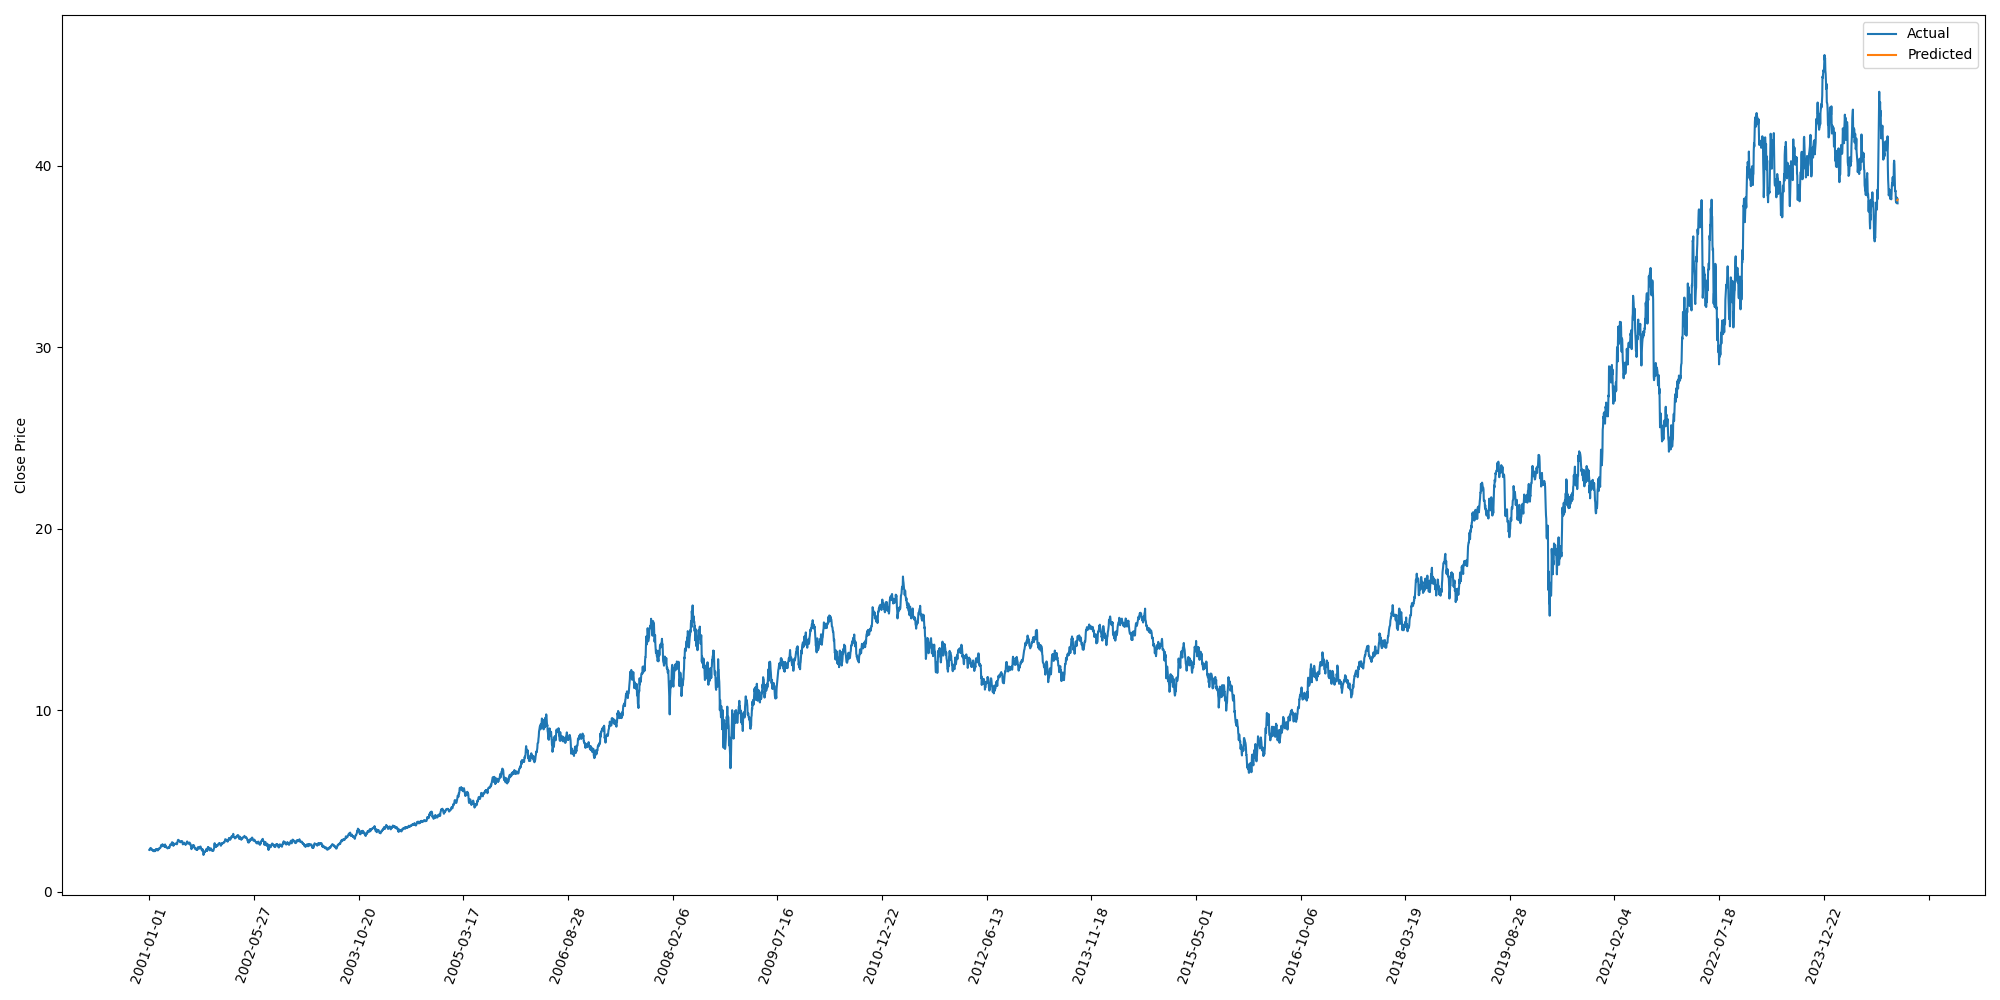
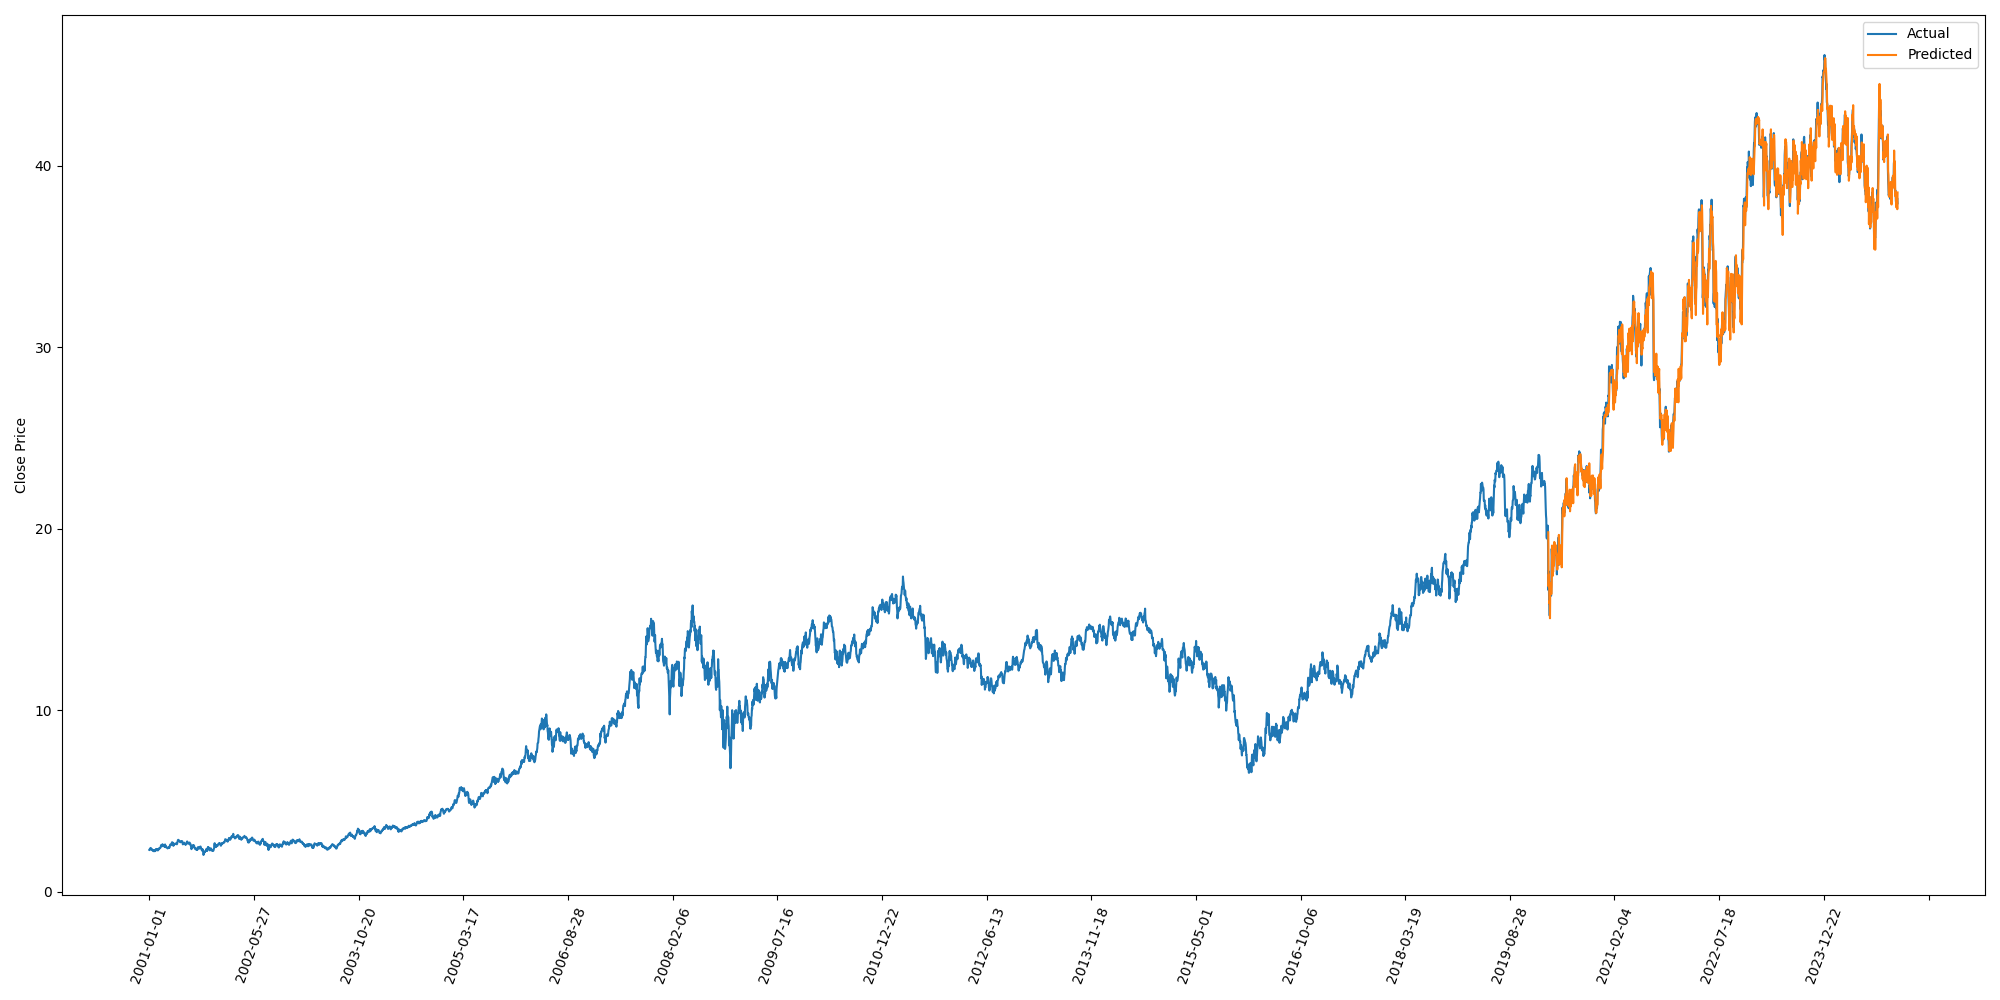
bhp rf done

Changed region(s): [[0.806, 0.217, 0.868, 0.434], [0.868, 0.093, 0.961, 0.217], [0.775, 0.465, 0.806, 0.589]]

diff --git a/RF_ol.py b/RF_ol.py
@@ -119,12 +119,12 @@ def main():
        
     # rf_model(dataset_list[0], ticker_list[0])
     # rf_model(dataset_list[1], ticker_list[1])
-    # rf_model(dataset_list[2], ticker_list[2])
-    # rf_model(dataset_list[3], ticker_list[3])
-    # rf_model(dataset_list[4], ticker_list[4])
+    rf_model(dataset_list[2], ticker_list[2])
+    rf_model(dataset_list[3], ticker_list[3])
+    rf_model(dataset_list[4], ticker_list[4])
     # rf_model(dataset_list[5], ticker_list[5])
     # rf_model(dataset_list[6], ticker_list[6])
-    rf_model(dataset_list[7], ticker_list[7])
+    # rf_model(dataset_list[7], ticker_list[7])
     # rf_model(dataset_list[8], ticker_list[8])
     
     
